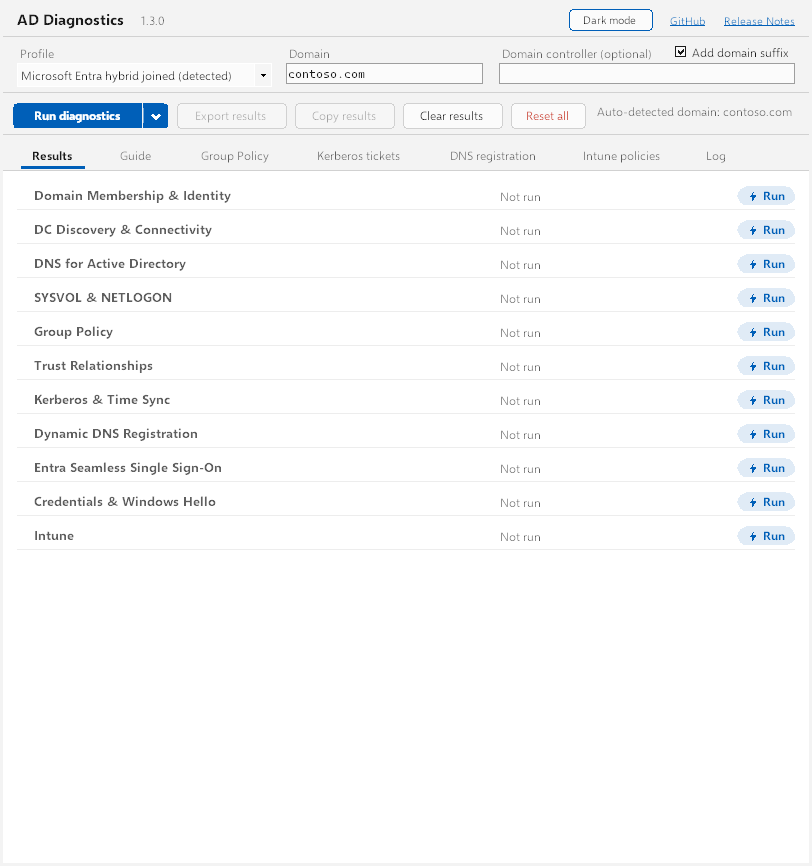
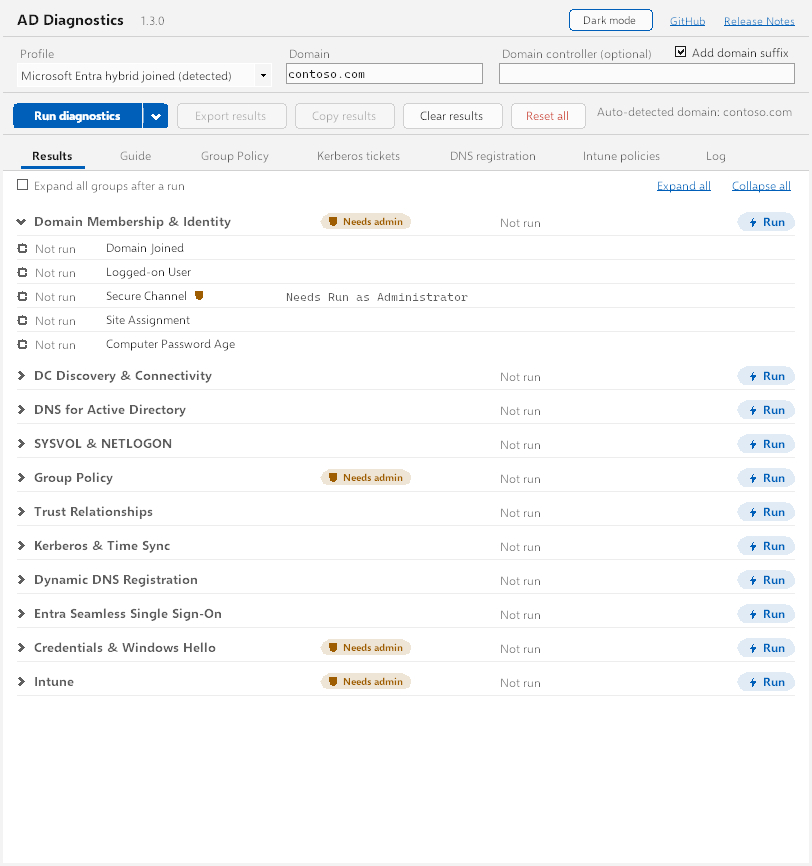
feat: open groups and show Needs admin before a run
Before a run each group opens to the checks it will make, and on an app
that isn't elevated the groups and checks that can need Administrator
carry the Needs admin capsule and shield, from Diagnostics.AdminChecks.

Claude-Session: https://claude.ai/code/session_01StQ2E6eUGyYwvDP9ytbP5z

diff --git a/MainForm.cs b/MainForm.cs
@@ -166,12 +166,11 @@ class MainForm : Form
     {
         ConfigureWindow();
         string appVersion = Assembly.GetExecutingAssembly().GetCustomAttribute<AssemblyInformationalVersionAttribute>()?.InformationalVersion ?? "?";
-        bool elevated = false;
-        try { elevated = Probe.IsElevated(); } catch (Exception) { } // unknown: shown as not elevated
+        try { _elevated = Probe.IsElevated(); } catch (Exception) { } // unknown: shown as not elevated
         // Windows marks an elevated window this way (as Command Prompt does), and the header says it too
-        if (elevated) Text = "Administrator: " + Text;
+        if (_elevated) Text = "Administrator: " + Text;
         var layout = BuildLayout();
-        layout.Controls.Add(BuildHeader(appVersion, elevated), 0, 0);
+        layout.Controls.Add(BuildHeader(appVersion, _elevated), 0, 0);
         layout.Controls.Add(BuildConfigPanel(), 0, 1);
         layout.Controls.Add(BuildActionsPanel(), 0, 2);
         layout.Controls.Add(BuildSummaryPanel(), 0, 3);
@@ -189,7 +188,7 @@ class MainForm : Form
 
         ShowPreview();
         WireLifecycle();
-        AppLog.Info("app", $"AD Diagnostics {appVersion} on {Environment.OSVersion.VersionString}, {(elevated ? "running as Administrator" : "not elevated")}");
+        AppLog.Info("app", $"AD Diagnostics {appVersion} on {Environment.OSVersion.VersionString}, {(_elevated ? "running as Administrator" : "not elevated")}");
         _ = DetectStartupAsync();
     }
 
@@ -2620,7 +2619,7 @@ class MainForm : Form
         foreach (var group in _renderedGroups!)
         {
             bool notRun = SelectedRun?.NotRun.Contains(group.Name) == true;
-            bool open = !notRun && IsGroupOpen(group);
+            bool open = IsGroupOpen(group);
             y = LayoutHeading(g, group, open, notRun, y, left, right);
             if (!open)
             {
@@ -2628,7 +2627,7 @@ class MainForm : Form
                 continue;
             }
             foreach (var test in group.Tests)
-                y = LayoutTest(g, group.Name, test, y, left, right, DetailWidth(width));
+                y = LayoutTest(g, group.Name, test, notRun, y, left, right, DetailWidth(width));
             if (group.Readiness is { } ready)
                 y = LayoutReadiness(g, group.Name, ready, y, left, right);
         }
@@ -2643,8 +2642,7 @@ class MainForm : Form
 
     // A group's heading: chevron and name, the group's verdict as a pill, its counts, and at the right edge a button
     // that runs the group on its own. The button stays in place while a run is going, faded and inactive. Left of it
-    // the heading is a button that opens and closes the group; one that hasn't run has nothing to open, so there it
-    // is plain text
+    // the heading is a button that opens and closes the group; one that hasn't run opens to the checks it will make
     int LayoutHeading(Graphics? g, TestGroup group, bool open, bool notRun, int y, int left, int right)
     {
         const TextFormatFlags oneLine = TextFormatFlags.NoPrefix | TextFormatFlags.SingleLine;
@@ -2658,9 +2656,9 @@ class MainForm : Form
             int noteX = right - S(RunSlot) - S(10) - _noteColumn;
             TextRenderer.DrawText(g, note, GroupCountFont, new Point(noteX, y + S(5)), DimColor, oneLine);
             if (!notRun && GroupVerdict(group) is { } verdict) DrawGroupBadge(g, verdict, noteX - S(12), y);
-            if (!notRun) DrawChevron(g, left, y + S(8), open);
+            DrawChevron(g, left, y + S(8), open);
             TextRenderer.DrawText(g, group.Name, GroupHeaderFont, new Point(left + S(14), y + S(3)), notRun ? DimColor : TextColor, oneLine);
-            bool needsAdmin = !notRun && group.Tests.Any(t => t.NeedsAdmin);
+            bool needsAdmin = group.Tests.Any(t => ShowsNeedsAdmin(t, notRun));
             if (needsAdmin)
             {
                 int nameRight = left + S(14) + TextRenderer.MeasureText(g, group.Name, GroupHeaderFont, Size.Empty, oneLine).Width;
@@ -2669,9 +2667,7 @@ class MainForm : Form
             }
 
             var bounds = new Rectangle(left - S(4), y, right - S(RunSlot) - S(8) - (left - S(4)), S(24));
-            _resultsCanvas.Rows.Add(notRun
-                ? new(group.Name, group.Name, "Not run", "", bounds)
-                : new(group.Name, group.Name, "", note, bounds, ResultsCanvas.Kind.Heading, open));
+            _resultsCanvas.Rows.Add(new(group.Name, group.Name, "", note, bounds, ResultsCanvas.Kind.Heading, open));
             _resultsCanvas.Headings.Add((group.Name, band));
             bool hover = !_running && _resultsCanvas.HoverGroup == group.Name && _resultsCanvas.HoverButton;
             DrawRunButton(g, button, notRun, hover);
@@ -2681,6 +2677,12 @@ class MainForm : Form
         }
         return y + S(26);
     }
+
+    // A check held back for want of Administrator, or, in a group that hasn't run on an app that isn't elevated, one
+    // that would be
+    bool ShowsNeedsAdmin(TestEntry test, bool notRun) =>
+        test.NeedsAdmin || notRun && !_elevated && Diagnostics.AdminChecks.Contains(test.Name);
+    readonly bool _elevated;
 
     // The group's worst result once every check has finished, the readiness line included; null while it runs
     static Status? GroupVerdict(TestGroup group)
@@ -2794,22 +2796,30 @@ class MainForm : Form
         g.SmoothingMode = smooth;
     }
 
-    // One check: mark and word, name, and the detail wrapped in its column
-    int LayoutTest(Graphics? g, string group, TestEntry test, int y, int left, int right, int detailW)
+    // One check: mark and word, name, and the detail wrapped in its column. In a group that hasn't run it is "Not
+    // run" by a text-dim ring, its detail saying only whether it needs Administrator
+    int LayoutTest(Graphics? g, string group, TestEntry test, bool notRun, int y, int left, int right, int detailW)
     {
+        bool needsAdmin = ShowsNeedsAdmin(test, notRun);
+        if (notRun) test = test with { Detail = needsAdmin ? "Needs Run as Administrator" : "" };
         var detailSize = TextRenderer.MeasureText(test.Detail, TestDetailFont, new Size(detailW, 0), DetailTextFlags);
         int rowHeight = Math.Max(S(20), detailSize.Height + S(4));
         if (g != null)
         {
-            var (word, color) = StatusLook(test);
+            var (word, color) = notRun ? ("Not run", DimColor) : StatusLook(test);
             g.DrawLine(RowLinePen, left, y, right, y);
-            DrawStatusMark(g, test, left, y + S(8));
+            if (notRun)
+            {
+                using var ring = new Pen(DimColor, S(2));
+                g.DrawEllipse(ring, left + 1, y + S(8) + 1, S(10) - 2, S(10) - 2);
+            }
+            else DrawStatusMark(g, test, left, y + S(8));
             TextRenderer.DrawText(g, word, StatusFont, new Point(left + S(15), y + S(5)), color, TextFormatFlags.NoPrefix);
             // A check held back for want of Administrator has a shield after its name
-            int nameW = S(DetailX - NameX - 6) - (test.NeedsAdmin ? S(14) : 0);
+            int nameW = S(DetailX - NameX - 6) - (needsAdmin ? S(14) : 0);
             const TextFormatFlags nameFlags = TextFormatFlags.Left | TextFormatFlags.SingleLine | TextFormatFlags.EndEllipsis | TextFormatFlags.NoPrefix;
             TextRenderer.DrawText(g, test.Name, TestNameFont, new Rectangle(S(NameX), y + S(4), nameW, S(18)), TextColor, nameFlags);
-            if (test.NeedsAdmin)
+            if (needsAdmin)
             {
                 int drawn = Math.Min(nameW, TextRenderer.MeasureText(g, test.Name, TestNameFont, Size.Empty,
                     TextFormatFlags.SingleLine | TextFormatFlags.NoPrefix).Width);
@@ -2874,9 +2884,10 @@ class MainForm : Form
     }
 
     // A group the user opened or closed stays that way; otherwise groups start closed, their heading carrying the
-    // verdict, or all open with "Expand all groups after a run"
+    // verdict, or all open with "Expand all groups after a run" (which leaves a group that hasn't run closed)
     bool IsGroupOpen(TestGroup group) =>
-        SelectedRun is { } run && run.Open.TryGetValue(group.Name, out bool open) ? open : _expandAll;
+        SelectedRun is { } run && run.Open.TryGetValue(group.Name, out bool open) ? open
+        : _expandAll && SelectedRun?.NotRun.Contains(group.Name) != true;
 
     void RerenderResults()
     {
@@ -3525,7 +3536,8 @@ class MainForm : Form
 
     /// <summary>
     /// Before any run: every section the profile runs, as a heading that hasn't run with its Run button, so what
-    /// will be checked shows before anything is. It is never a run of its own: running starts a real one.
+    /// will be checked shows before anything is; each opens to its checks, and those that need Administrator say
+    /// so. It is never a run of its own: running starts a real one.
     /// </summary>
     void ShowPreview()
     {
@@ -3533,7 +3545,6 @@ class MainForm : Form
         preview.NotRun.UnionWith(preview.Results.Select(g => g.Name));
         _preview = preview;
         RenderResults(preview.Results);
-        _resultsBar.Visible = false; // nothing to open or close yet
     }
 
     void ShowSelectedRun()
@@ -3689,7 +3700,7 @@ class MainForm : Form
                 new(Diagnostics.SsoEndpoints),
             ]),
             new(Diagnostics.CredentialsGroup, [
-                new(Diagnostics.HelloCheck), new(Diagnostics.TpmCheck),
+                new(Diagnostics.HelloCheck), new(Diagnostics.HelloTrustCheck), new(Diagnostics.SignInMethodsCheck), new(Diagnostics.TpmCheck),
                 new(Diagnostics.TicketEncryptionCheck), new(Diagnostics.SavedCredentialsCheck),
             ]),
             new(Diagnostics.IntuneGroup, [

diff --git a/tests/AdDiag.Tests/IntuneTests.cs b/tests/AdDiag.Tests/IntuneTests.cs
@@ -109,6 +109,20 @@ public class IntuneTests
         Assert.Equal(Status.Skip, entry.Status);
         Assert.Equal("Not checked: needs Run as Administrator to read the sync times", entry.Detail);
         Assert.True(entry.NeedsAdmin);
+        Assert.Contains(entry.Name, Diagnostics.AdminChecks);
+    }
+
+    [Fact]
+    public void PolicySettingsDenied_NeedsAdmin()
+    {
+        var probe = Enrolled();
+        probe.Denied.Add($@"SOFTWARE\Microsoft\PolicyManager\providers\{Id}\default\Device");
+
+        var entry = Entry(Diagnostics.TestIntune(probe, Now), "Device Policies");
+
+        Assert.Equal(Status.Skip, entry.Status);
+        Assert.True(entry.NeedsAdmin);
+        Assert.Contains(entry.Name, Diagnostics.AdminChecks);
     }
 
     [Fact]
@@ -120,6 +134,8 @@ public class IntuneTests
         var entry = Assert.Single(Diagnostics.TestIntune(probe, Now).Tests);
 
         Assert.Equal(Status.Skip, entry.Status);
+        Assert.True(entry.NeedsAdmin);
+        Assert.Contains(entry.Name, Diagnostics.AdminChecks);
     }
 
     [Fact]

diff --git a/tests/AdDiag.Tests/DiagnosticsTests.cs b/tests/AdDiag.Tests/DiagnosticsTests.cs
@@ -228,6 +228,8 @@ public class DiagnosticsTests
         var group = Diagnostics.TestDomainMembership(Config(), probe);
         Assert.Equal(needsAdmin, group.Tests.Single(t => t.Name == "Secure Channel").NeedsAdmin);
         Assert.False(group.Tests.Single(t => t.Name == "Domain Joined").NeedsAdmin);
+        // Before a run, the app marks it from this list
+        Assert.All(group.Tests.Where(t => t.NeedsAdmin), t => Assert.Contains(t.Name, Diagnostics.AdminChecks));
     }
 
     [Fact]
@@ -236,6 +238,7 @@ public class DiagnosticsTests
         var probe = new FakeProbe { Rsop = $"SCOPE|Computer|DENIED\nSCOPE|User|OK|{DateTime.UtcNow.AddHours(-1):o}|HQ\nGPO|User|{{A}}|1|1|1|0|1|Drive Maps" };
         var group = Diagnostics.TestGroupPolicy(Config(), probe);
         Assert.All(group.Tests, t => Assert.True(t.NeedsAdmin));
+        Assert.All(group.Tests, t => Assert.Contains(t.Name, Diagnostics.AdminChecks));
         Assert.Equal(Status.Pass, StatusOf(group, "Applied GPOs"));
     }
 

diff --git a/Diagnostics.cs b/Diagnostics.cs
@@ -91,6 +91,16 @@ record Readiness(Status Status, string Text, bool ShowGuide);
 // dependency so they can be unit tested (see tests/AdDiag.Tests).
 static partial class Diagnostics
 {
+    /// <summary>
+    /// The checks that can be held back for want of Administrator (each sets <see cref="TestEntry.NeedsAdmin"/> when
+    /// it is). Before a run, an app that isn't elevated marks them, so the need shows before anything runs.
+    /// </summary>
+    public static readonly IReadOnlySet<string> AdminChecks = new HashSet<string>
+    {
+        "Secure Channel", "GP Last Refresh", "Applied GPOs", "Denied GPOs",
+        HelloTrustCheck, SignInMethodsCheck, MdmEnrollmentCheck, MdmSyncCheck, MdmPoliciesCheck,
+    };
+
     public static TestGroup TestDomainMembership(DiagConfig cfg, IProbe probe) => new("Domain Membership & Identity",
     [
         DomainJoinedCheck(cfg, probe), LoggedOnUserCheck(probe), SecureChannelCheck(cfg, probe),

diff --git a/tools/screenshots/Shots.cs b/tools/screenshots/Shots.cs
@@ -51,10 +51,14 @@ static class Shots
         // Wine runs everything as Administrator; the screenshots show the usual unelevated app
         form.Text = "AD Diagnostics";
         foreach (var c in AllControls(form).Where(c => c.AccessibleName == "Running as administrator")) c.Visible = false;
-        // Before any run: the profile's sections, not run yet
+        Set(form, "_elevated", false);
+        // Before any run: the profile's sections, not run yet, with one opened to the checks it will make
         Pump(800);
         Set(form, "_profilePicked", true);
         Call(form, "SetProfile", JoinProfile.Hybrid, true);
+        var preview = (DiagRun)form.GetType().GetProperty("SelectedRun", F)!.GetValue(form)!;
+        preview.Open["Domain Membership & Identity"] = true;
+        Call(form, "RerenderResults");
         Pump(300);
         Capture(form, outDir, "before-run.png");
         Pump(800);

diff --git a/tests/AdDiag.Tests/CredentialsTests.cs b/tests/AdDiag.Tests/CredentialsTests.cs
@@ -98,6 +98,19 @@ public class CredentialsTests
     }
 
     [Fact]
+    public void HelloPolicy_Denied_NeedsAdmin()
+    {
+        var probe = Machine(Dsreg());
+        probe.Denied.Add(@"SOFTWARE\Policies\Microsoft\PassportForWork");
+
+        var entry = Entry(Run(probe), "Hello Trust");
+
+        Assert.Equal(Status.Skip, entry.Status);
+        Assert.True(entry.NeedsAdmin);
+        Assert.Contains(entry.Name, Diagnostics.AdminChecks);
+    }
+
+    [Fact]
     public void Biometrics_Denied_NeedsAdmin()
     {
         var probe = Machine(Dsreg());
@@ -107,6 +120,7 @@ public class CredentialsTests
 
         Assert.Equal(Status.Skip, entry.Status);
         Assert.True(entry.NeedsAdmin);
+        Assert.Contains(entry.Name, Diagnostics.AdminChecks);
     }
 
     [Theory]

diff --git a/DESIGN.md b/DESIGN.md
@@ -185,12 +185,12 @@ None. Depth is tone only: the panel is lighter (dark: darker) than the window. N
 - **Danger button:** a normal button with the label in fail colour (Reset all, Delete run).
 - **Tab:** bare text, dim when idle; the selected tab is bold with a 3px primary underline.
 - **Result row:** mark and word in status colour; name and detail in text colour.
-- **Group heading** (Results): a 8px text-dim chevron (right when closed, down when open), the bold group name, then the **verdict pill** and the counts, and at the right edge the **Run button**. The counts start at a column as wide as the longest counts on show (at least 200px), with the pill just left of it, so both line up down the list. Verdict pill: the group's worst result once all its checks finish, the readiness line included — PASSED, WARNING or FAILED in 7.5pt bold capitals, in the status colour on a 16% tint of it, 16px tall, fully rounded, all as wide as WARNING. Run button: a capsule like the pills in primary (12% tint, 24% under the mouse), a lightning bolt and "Run again" in 8.5pt bold primary ("Run" on a group that hasn't run), right-aligned in an 88px slot; it runs that group alone and is always shown, faded to 40% and inactive while a run is going. Left of the slot the heading is the button that opens and closes the group; no hand cursor anywhere on it. A group run on its own adds " · run at HH:mm:ss" to its counts. A group that hasn't run shows its name in text-dim, no chevron, no pill, "Not run" for counts, and isn't a button. Before any run, Results lists every group the profile runs this way, so what will be checked shows first. Up and Down move between headings and Run buttons, Enter or Space acts; the focused one draws a focus rectangle; a tooltip names the Run button's group.
-- **Needs admin capsule:** on a group heading when a check in it was held back because the app isn't elevated: a 16px-tall capsule in the warning colour on a 16% tint, a 10px shield and "Needs admin" in 7.5pt bold, ending 8px left of the verdict pill; just the shield where the name leaves no room. Its tooltip says how to run as Administrator. The held-back row has the same shield, in the warning colour, after its check name.
+- **Group heading** (Results): a 8px text-dim chevron (right when closed, down when open), the bold group name, then the **verdict pill** and the counts, and at the right edge the **Run button**. The counts start at a column as wide as the longest counts on show (at least 200px), with the pill just left of it, so both line up down the list. Verdict pill: the group's worst result once all its checks finish, the readiness line included — PASSED, WARNING or FAILED in 7.5pt bold capitals, in the status colour on a 16% tint of it, 16px tall, fully rounded, all as wide as WARNING. Run button: a capsule like the pills in primary (12% tint, 24% under the mouse), a lightning bolt and "Run again" in 8.5pt bold primary ("Run" on a group that hasn't run), right-aligned in an 88px slot; it runs that group alone and is always shown, faded to 40% and inactive while a run is going. Left of the slot the heading is the button that opens and closes the group; no hand cursor anywhere on it. A group run on its own adds " · run at HH:mm:ss" to its counts. A group that hasn't run shows its name in text-dim, no pill, and "Not run" for counts; it still opens and closes, to list the checks it will make, each "Not run" in text-dim by a text-dim ring, and it starts closed even with "Expand all groups after a run". Before any run, Results lists every group the profile runs this way, so what will be checked shows first. Up and Down move between headings and Run buttons, Enter or Space acts; the focused one draws a focus rectangle; a tooltip names the Run button's group.
+- **Needs admin capsule:** on a group heading when a check in it was held back because the app isn't elevated, or, on a group that hasn't run, would be (the checks that can be held back: secure channel, Group Policy, Hello trust, sign-in methods, Intune enrollment, sync and policies): a 16px-tall capsule in the warning colour on a 16% tint, a 10px shield and "Needs admin" in 7.5pt bold, ending 8px left of the verdict pill; just the shield where the name leaves no room. Its tooltip says how to run as Administrator. The held-back row has the same shield, in the warning colour, after its check name; before a run its detail reads "Needs Run as Administrator".
 - **Administrator indicator:** when the app is elevated, a 12px shield in primary and "Running as administrator" in text colour, 12px right of the version; the title bar starts "Administrator: ", as Windows marks elevated windows.
 - **Readiness row:** a result row whose name is "Readiness" in bold and whose detail is the group's verdict in body text. When the verdict asks for action, a link in primary, underlined, follows it ("See the fixes in the Guide") and opens the Guide tab with that group's section open and at the top.
 - **Guide sections:** every section starts folded to its title (bold, 10.5pt) after a ► or ▼ in text-dim from the monospace font; a click or Enter on the title toggles it, keeping it where it was on screen. Folded titles sit together as a list; an open section has a blank line before and after.
-- **Results bar:** above the results, on the panel: the "Expand all groups after a run" checkbox in text-dim on the left, "Expand all" and "Collapse all" links in primary on the right. Shown only when there are results.
+- **Results bar:** above the results, on the panel: the "Expand all groups after a run" checkbox in text-dim on the left, "Expand all" and "Collapse all" links in primary on the right. Shown whenever Results lists groups, before a run too.
 - **Ticket badge:** filled label in the Kerberos tickets pane; text uses on-primary.
 - **PRT card:** the first card in the Kerberos tickets pane on an Entra or hybrid joined PC, in the ticket card's frame. Its badge (PRT, PRT EXPIRED or NO PRT) is filled with the status colour of the Results row for the token; labels in text-dim, padded to one column; a value with a status (Status, an expired Expires, the TGT flags on an Entra joined PC) takes that status colour.
 - **Profile picker:** a flat drop-down list on surface under a text-dim "Profile" label, like the other inputs; the detected choice ends in "(detected)".

diff --git a/README.md b/README.md
@@ -40,9 +40,9 @@ On first launch, Windows SmartScreen may display a warning ("Windows protected y
    On the other profiles the app auto-detects the current domain (from `USERDNSDOMAIN`, `dsregcmd /status`, or the machine's DNS domain suffix) and pre-fills the **Domain** field. Enter target details:
    - **Domain** — e.g. `contoso.com`
    - **DC Hostname** — optional, defaults to domain for DC discovery. **+ domain suffix** is on by default, auto-appending the domain to short names. Uncheck to use the value as-is.
-3. Before a run, **Results** lists every group the profile runs, each with its own **Run** button:
+3. Before a run, **Results** lists every group the profile runs, each with its own **Run** button. Open a group to see the checks it will make; when the app isn't running as Administrator, the groups with checks that need it say **Needs admin**:
 
-   ![Results before a run: every group of the profile, not run yet](docs/screenshots/before-run.png)
+   ![Results before a run: every group of the profile, not run yet, one opened to its checks](docs/screenshots/before-run.png)
 
    Click **Run Diagnostics** — results stream in as each test group completes. To run one group on its own, pick it from the arrow next to the button, or click **Run again** at the right of its heading in Results (**Run** on a group that hasn't run; with the keyboard, move to a heading and press Down to reach it). For the same domain and DC as the run on show, its results replace that group there, and the group opens to show them (or stays open) and its heading shows when it ran ("run at 14:32:05"); otherwise it starts a new run where the other groups show **Not run** until you run them. One run goes at a time
 
@@ -108,7 +108,7 @@ Each check ends in one of five results:
 
 A group's heading shows the worst of its checks: **FAILED**, **WARNING** or **PASSED** (Info and Skipped don't lower it).
 
-**Run as Administrator:** a few checks read more as Administrator: the secure channel, the computer half of Group Policy, Intune's sync times and policy settings, and possibly the Hello policy and biometric enrollment. When the app isn't elevated and one of them was held back, its row has a shield after its name and its group's heading a **Needs admin** capsule (hover it for how to elevate). When the app is elevated, the title bar reads "Administrator: AD Diagnostics" and the header shows **Running as administrator**.
+**Run as Administrator:** a few checks read more as Administrator: the secure channel, the computer half of Group Policy, Intune's sync times and policy settings, and possibly the Hello policy and biometric enrollment. When the app isn't elevated and one of them was held back, its row has a shield after its name and its group's heading a **Needs admin** capsule (hover it for how to elevate). Before a run, an app that isn't elevated shows the capsule on every group with such a check, and opening the group shows which ones. When the app is elevated, the title bar reads "Administrator: AD Diagnostics" and the header shows **Running as administrator**.
 
 ### Profiles
 
